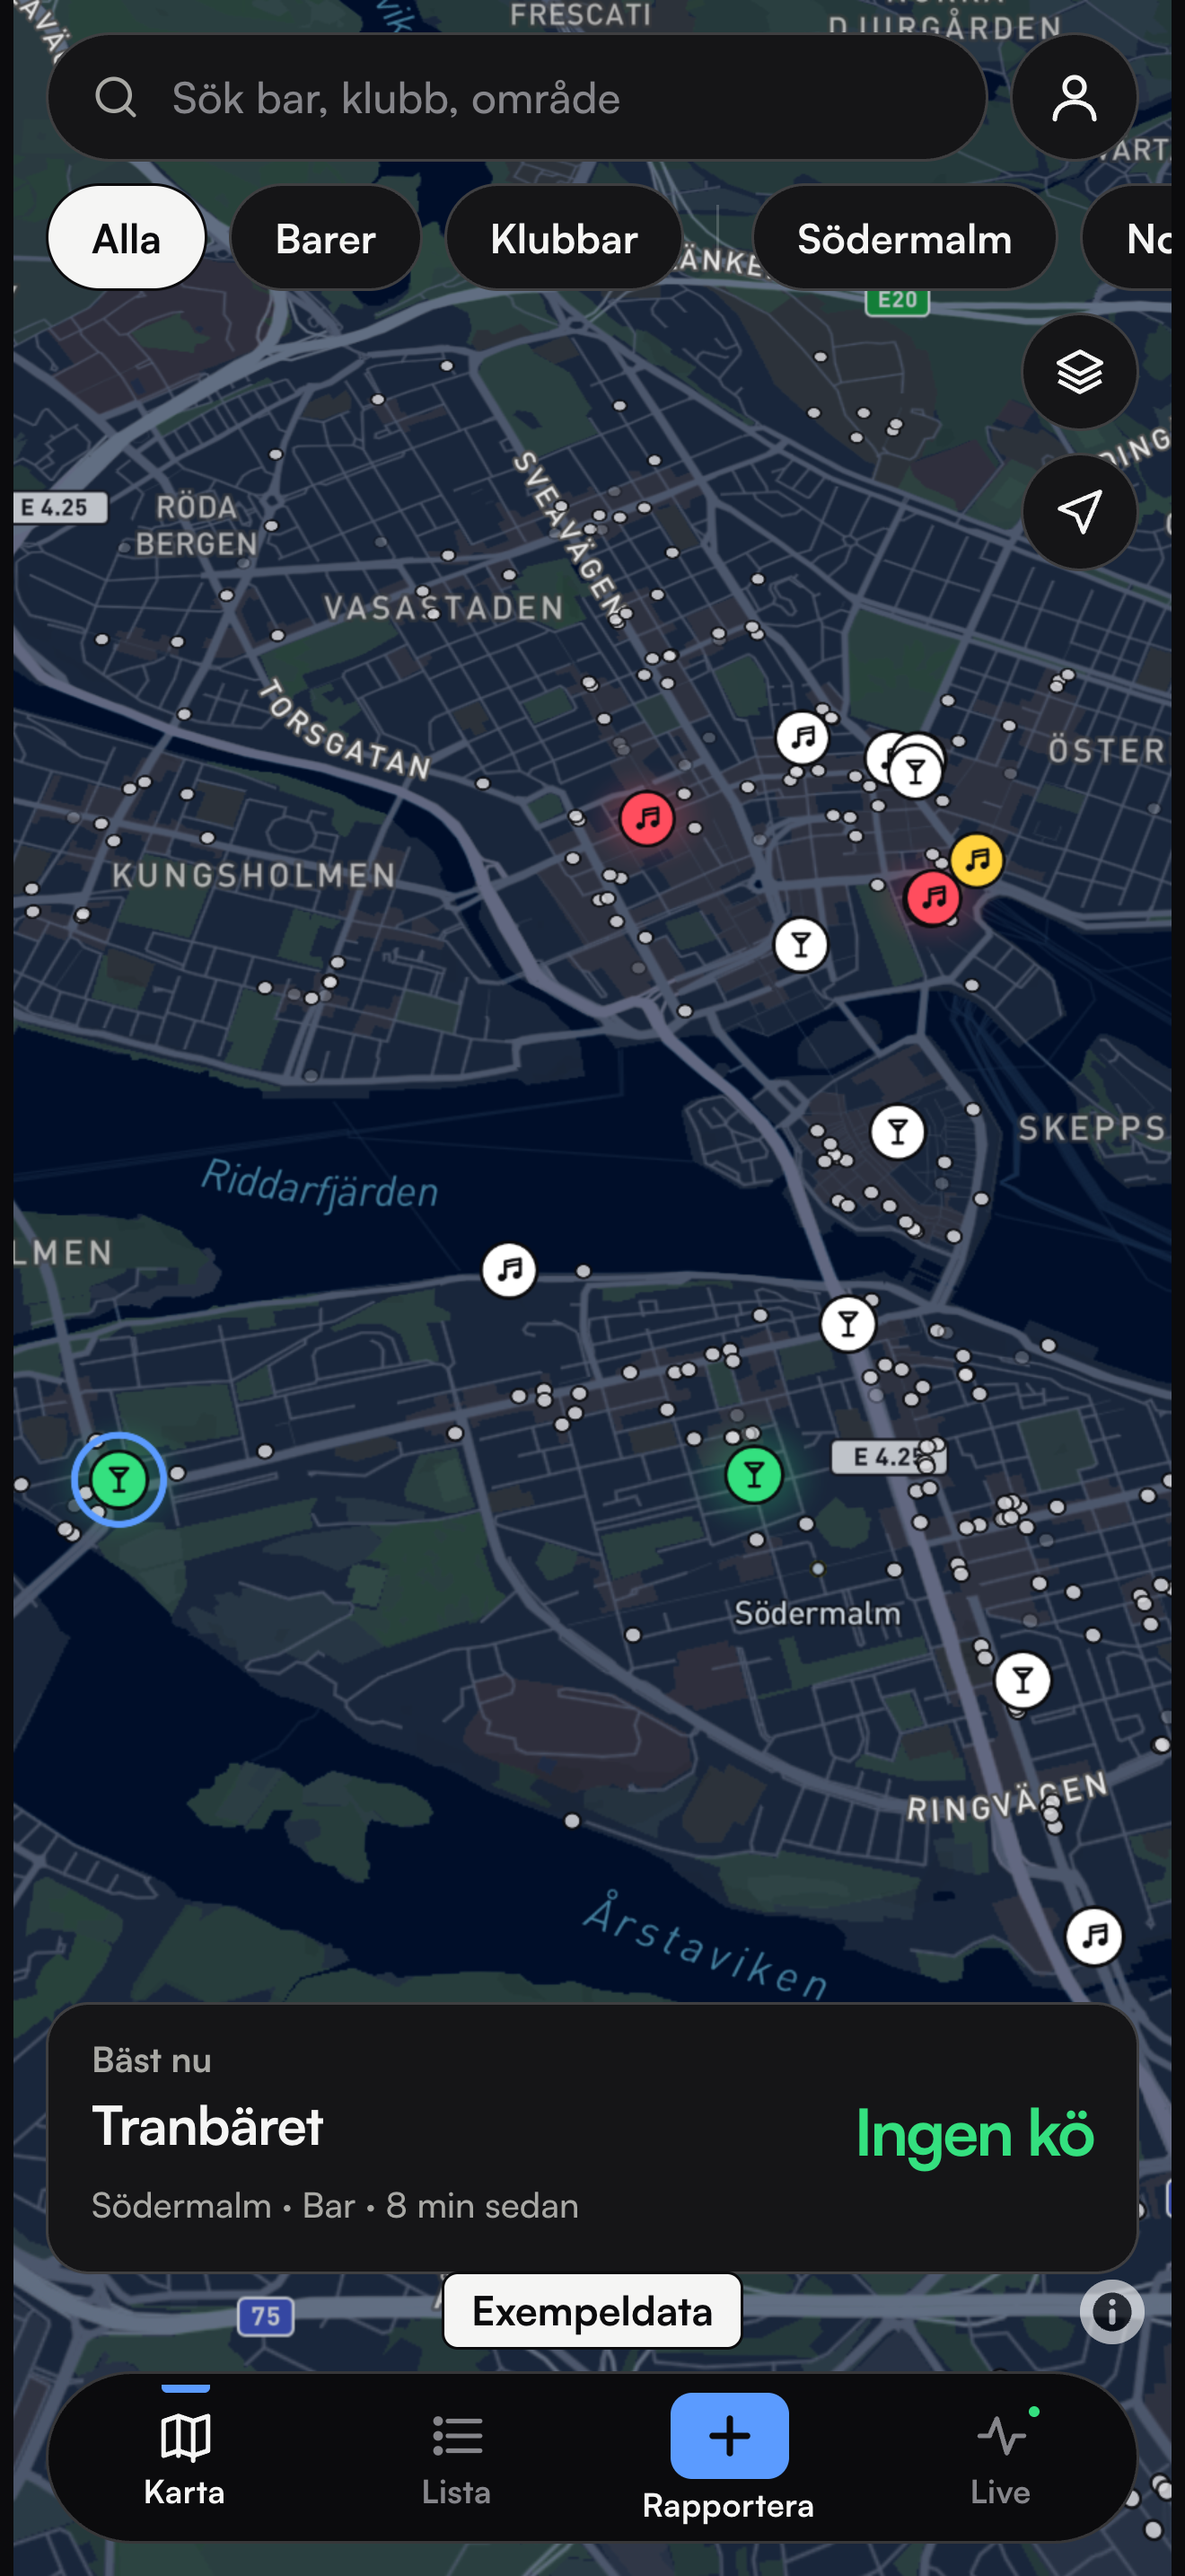
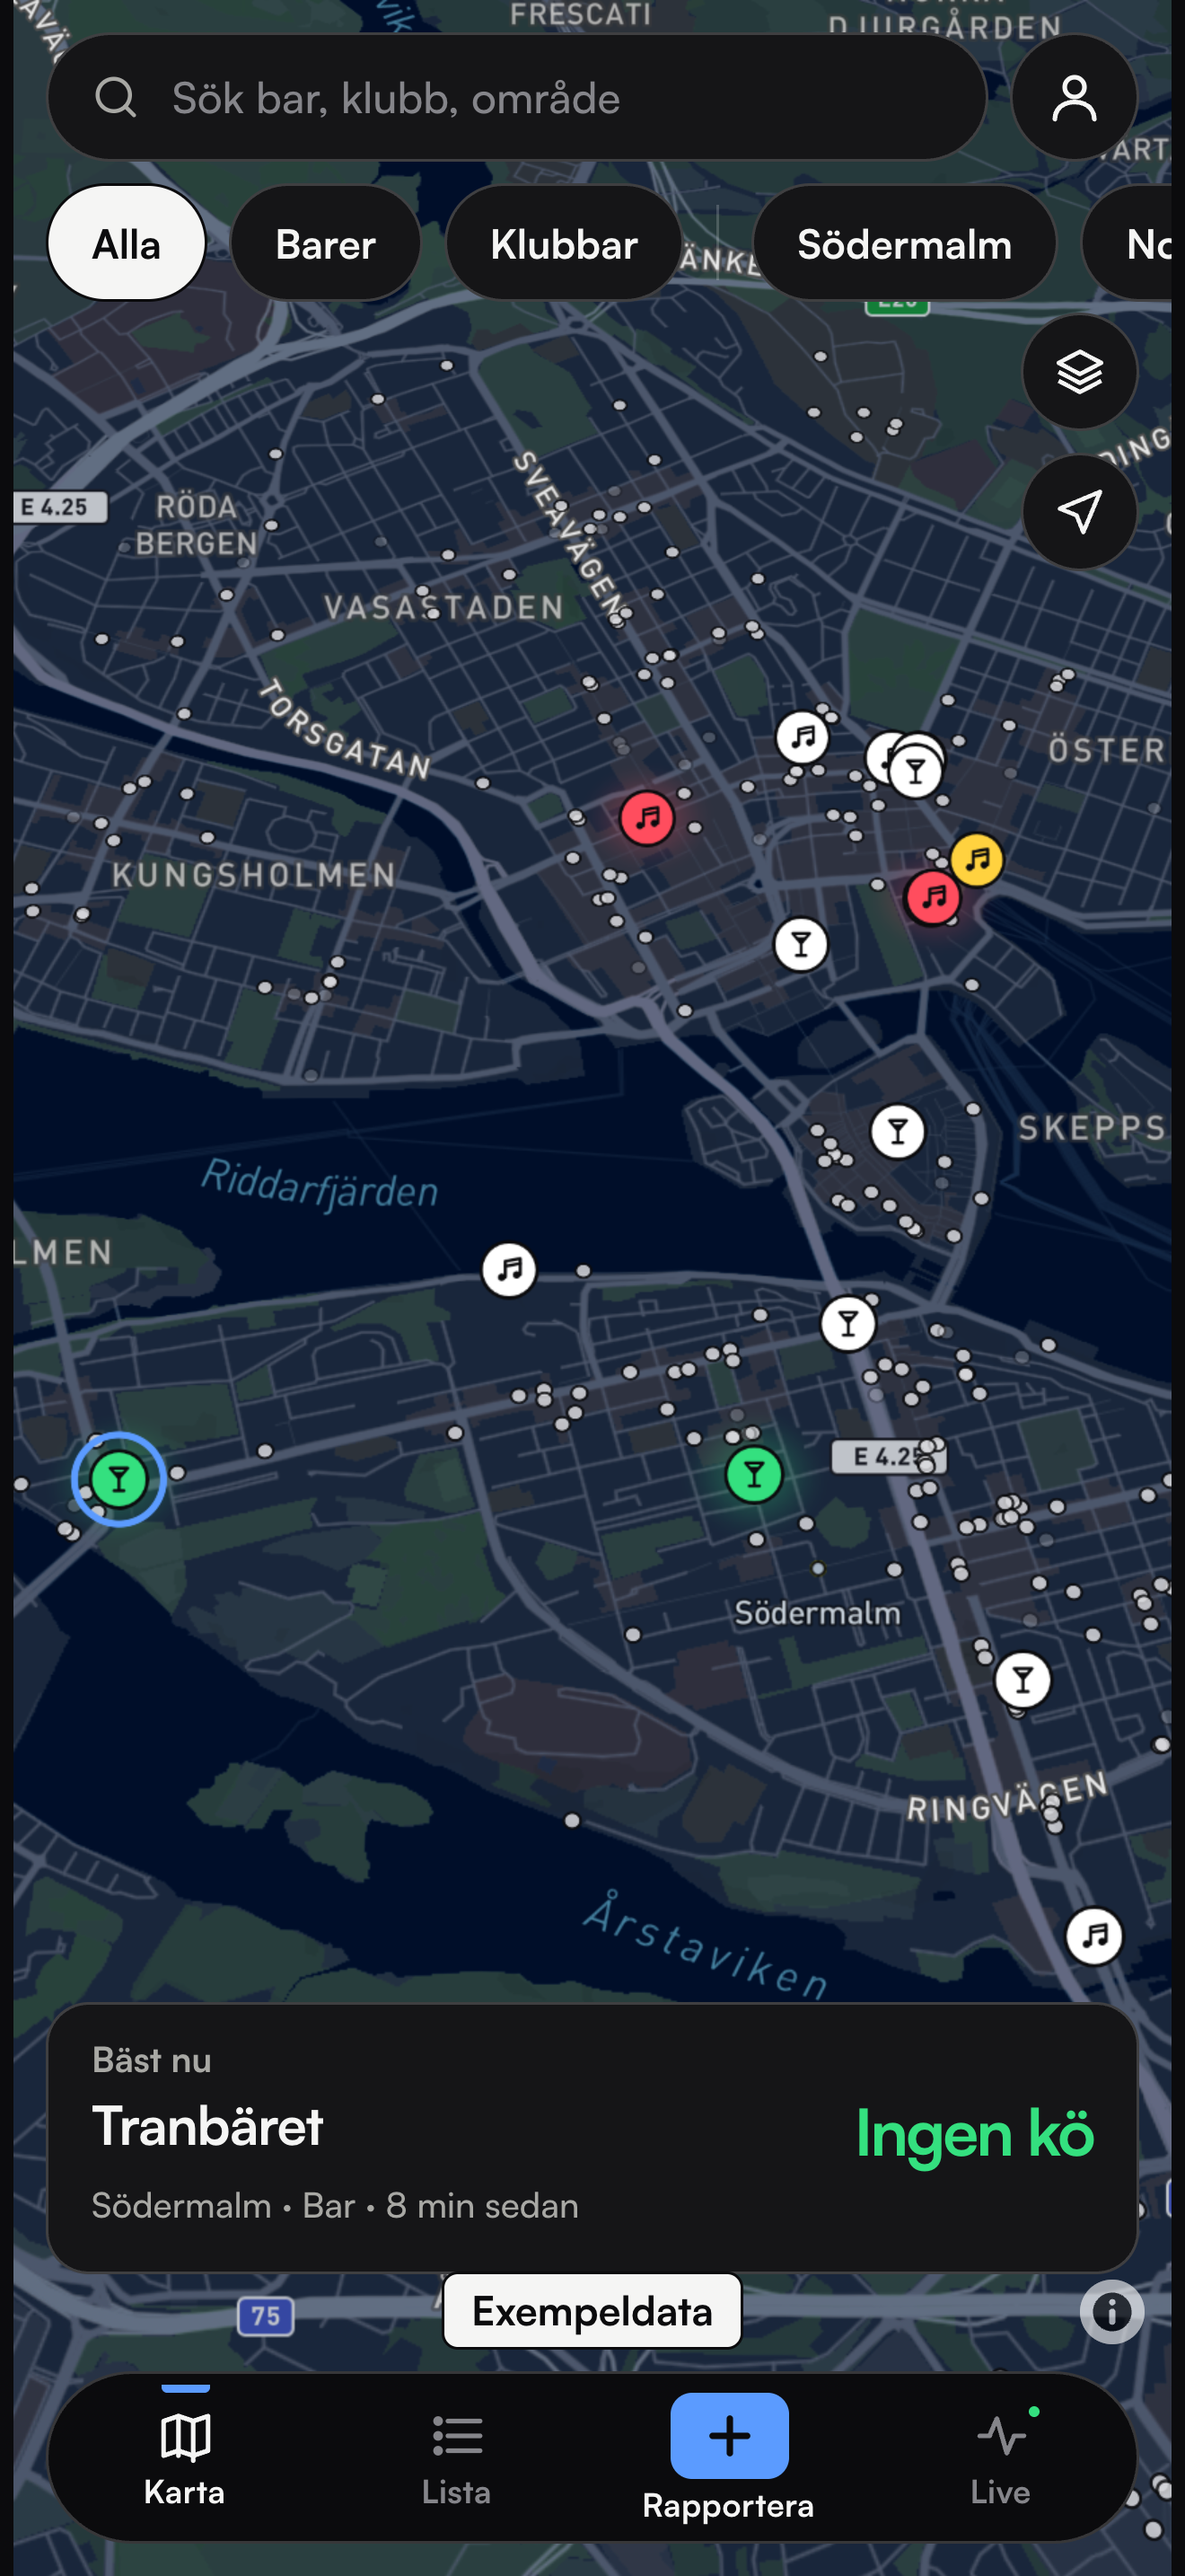
Inför App Store: CSP, 404-sida och sitemap i stället för catch-all, kön i ord i Rapportera, tryckytor 44 pt, Brukar vara ur antalet, frontman som dev-beroende, kategori Livsstil

diff --git a/src/main.js b/src/main.js
@@ -3135,7 +3135,9 @@ import './style.css';
 
     // "Brukar vara …" (listan och På väg, bara när färsk data saknas): vanligaste köstatusen samma veckodag ±1 h
     // tidigare kvällar — samma regel som historicalRateFor, via nightKey så att 00:30 hör till kvällen innan. Kvällen
-    // just nu räknas inte; den har egen data. "Ingen kö" räknas med, annars överdrivs köerna.
+    // just nu räknas inte; den har egen data. "Ingen kö" räknas med, annars överdrivs köerna. Statusen räknas här ur
+    // antalet och ställets takt, inte ur rapportens queue_status: den väljer klienten, och en falsk rad kunde säga "lång kö"
+    // om 5 personer.
     // shortcut: de 1000 senaste initial-rapporterna på 8 veckor (PostgREST-taket); flytta till en RPC när det inte räcker.
     async function loadHistoricalPatterns() {
       if (!supabase) return;
@@ -3144,7 +3146,7 @@ import './style.css';
         var key = nightKey(now);
         var result = await supabase
           .rpc('report_history')
-          .select('venue_id, queue_status, created_at')
+          .select('venue_id, people_ahead, created_at')
           .gte('created_at', new Date(now - 8 * 7 * 24 * 3600 * 1000).toISOString())
           .eq('report_type', 'initial')
           .neq('venue_id', DEMO_VENUE_ID)
@@ -3157,7 +3159,9 @@ import './style.css';
           if (now - t < 12 * 3600 * 1000) return;
           var k = nightKey(t), dh = Math.abs(k.hour - key.hour);
           if (k.dow !== key.dow || Math.min(dh, 24 - dh) > 1) return;
-          var s = r.queue_status === 'free' ? 'none' : r.queue_status; // äldre rader skrev 'free'
+          var v = getVenueById(r.venue_id);
+          if (!v || r.people_ahead == null) return;
+          var s = waitToStatus({ ahead: r.people_ahead, mins: r.people_ahead / PACE_RATE[v.pace], full: false });
           var c = byVenue[r.venue_id] = byVenue[r.venue_id] || {};
           c[s] = (c[s] || 0) + 1;
         });
@@ -4684,6 +4688,9 @@ import './style.css';
         var km = distanceKmTo(v);
         var metaParts = [v.area + (rsTypeLbl ? ' · ' + rsTypeLbl : '')];
         if (km !== null) metaParts.push(formatDistance(km));
+        // Kön i ord bredvid pricken: färgen ensam når varken färgblinda eller VoiceOver.
+        var waitWords = fresh ? venueWaitText(v.id) : '';
+        if (waitWords) metaParts.unshift(waitWords);
         // Utan rapport: ingen text. Den ihåliga pricken säger det redan, och samma mening på 292 rader var en textvägg.
         var ago = closed ? 'stängt' : fresh ? timeAgo(new Date(latestTs[v.id]).toISOString()) : '';
         return '<button class="rs-item' + (closed ? ' rs-item--closed' : '') + '" onclick="pickRV(\'' + v.id + '\')">' +

diff --git a/src/style.css b/src/style.css
@@ -471,6 +471,7 @@
     .vc-fav svg { display: block; width: 18px; height: 18px; fill: none; stroke: currentColor; stroke-width: 2; stroke-linejoin: miter; }
     .vc-fav.fav { color: var(--text-primary); }
     .vc-fav.fav svg { fill: currentColor; }
+    .vc-fav { min-width: 44px; display: inline-flex; align-items: center; justify-content: center; } /* stjärnan är 18 px; tryckytan 44 */
     /* Stängs med ett tryck på kartan eller raden. För tangentbord finns knappen, synlig bara när den har fokus. */
     .vc-close { position: absolute; width: 1px; height: 1px; padding: 0; border: 0; overflow: hidden; clip-path: inset(50%); white-space: nowrap; }
     .vc-close:focus-visible {
@@ -591,7 +592,7 @@
       display: inline-flex; align-items: center; gap: 8px; flex-shrink: 0;
       background: var(--surface); border: 1px solid var(--border);
       border-radius: var(--radius-full); padding: 0 16px;
-      height: 40px;
+      height: 44px; /* Apples minsta tryckyta */
       color: var(--text-secondary); font-family: var(--font-base);
       font-size: calc(15 * var(--u)); font-weight: 700; cursor: pointer; white-space: nowrap;
       transition: background var(--dur-fast) var(--ease-out), color var(--dur-fast) var(--ease-out), border-color var(--dur-fast) var(--ease-out);

diff --git a/public/404.html b/public/404.html
@@ -1,0 +1,25 @@
+<!doctype html>
+<html lang="sv">
+<head>
+<meta charset="utf-8">
+<meta name="viewport" content="width=device-width, initial-scale=1, viewport-fit=cover">
+<meta name="theme-color" content="#0B0B0D">
+<meta name="robots" content="noindex">
+<title>Sidan finns inte · Qbar</title>
+<style>
+  :root { color-scheme: dark; }
+  body { margin: 0; min-height: 100vh; display: flex; align-items: center; justify-content: center; background: #0B0B0D; color: #F5F5F4; font: 16px/1.5 -apple-system, BlinkMacSystemFont, "Segoe UI", sans-serif; text-align: center; }
+  main { padding: 24px; max-width: 320px; }
+  h1 { font-size: 22px; margin: 0 0 8px; }
+  p { color: #A8A8A4; margin: 0 0 24px; }
+  a { display: inline-block; min-height: 48px; line-height: 48px; padding: 0 24px; border-radius: 12px; background: #5B9BFF; color: #0B0B0D; font-weight: 700; text-decoration: none; }
+</style>
+</head>
+<body>
+<main>
+  <h1>Sidan finns inte</h1>
+  <p>Adressen leder ingenstans.</p>
+  <a href="/">Till Qbar</a>
+</main>
+</body>
+</html>

diff --git a/docs/DATA_MODEL.md b/docs/DATA_MODEL.md
@@ -142,7 +142,7 @@ rapportera.
 | Funktion | Fråga | Gräns |
 |---|---|---|
 | `loadReports` | `select * where expires_at >= nu order by created_at desc` | **limit 1000** (B-05) |
-| `loadHistoricalPatterns` | `rpc('report_history')` med `select venue_id, queue_status, created_at where created_at >= 8 v, report_type = 'initial' order by created_at desc` — "Ingen kö" räknas med, kvällen just nu (senaste 12 h) räknas bort i klienten | **limit 1000** |
+| `loadHistoricalPatterns` | `rpc('report_history')` med `select venue_id, people_ahead, created_at where created_at >= 8 v, report_type = 'initial' order by created_at desc` — statusen räknas i klienten ur antalet och ställets `pace` (inte ur `queue_status`); "Ingen kö" räknas med, kvällen just nu (senaste 12 h) räknas bort | **limit 1000** |
 | `loadHistoricalRates` | `rpc('report_history')` med `select venue_id, queue_session, people_ahead, report_type, created_at where queue_session not null, created_at >= 8 v order by created_at desc` | **limit 1000** |
 | `loadUserHistory` | `rpc('my_reports', { p_user_id })`: egna rapporter, nyast först — profilen räknar unika kö-sessioner; "–" medan den hämtar eller om den misslyckas | ingen |
 
@@ -248,8 +248,9 @@ som inte finns i databasen. Felet var tyst (returvärdet kontrollerades inte) oc
    i timmen per nät (IP-adressen hashad med hemligt salt, sparad en timme i `report_ip_log`). Ett nytt id räcker alltså
    inte för att fylla ett ställe; ett nytt nät gör det. Mer kräver inloggning eller captcha.
 3. **`expires_at` och `created_at` sätts av servern.**
-4. **`queue_status` beräknas i klienten** och skickas med. Den kan sättas till vilket känt värde som helst
-   oberoende av `people_ahead`.
+4. **`queue_status` beräknas i klienten** och skickas med. Servern kräver bara att `'none'` ⇔ 0 framför
+   (`status_mismatch`); i övrigt kan den vara vilken känd status som helst. Därför läser varken kartan, listan eller
+   "Brukar vara" den: allt räknas ur `people_ahead`.
 5. **Radera min data** är ett anrop: `delete_my_data(p_user_id)` (security definer) raderar dina rader i `reports` och
    `push_subscriptions`. Bara vid svar utan fel rensas `localStorage`. Låst fast av "5. Radera min data" i
    `e2e/app.spec.js`. Förut stoppade `stop_on_my_way` (som inte finns) och den saknade delete-policyn varje radering.
@@ -257,9 +258,9 @@ som inte finns i databasen. Felet var tyst (returvärdet kontrollerades inte) oc
    och resten av kö-sessionen följer med (`supabase/migrations/20261111050000_delete_my_report.sql`).
 
 6. **Nycklar i klartext i källkoden** (`src/main.js`): Mapbox-token, Supabase-URL och
-   Supabase anon-nyckel. Båda är avsedda att vara publika — Mapbox-token är URL-begränsad och
-   anon-nyckeln skyddas av RLS (punkt 1–5 och migreringarna i `supabase/migrations/`). Ingen `.env` finns och ingen
-   `import.meta.env` läses, trots att Vite stöder det.
+   Supabase anon-nyckel. Båda är avsedda att vara publika. Anon-nyckeln skyddas av RLS (punkt 1–5 och migreringarna i
+   `supabase/migrations/`). Mapbox-token är **inte** URL-begränsad (2026-11-24: en annan Origin fick 200); begränsa den
+   i Mapbox-kontot. Ingen `.env` finns och ingen `import.meta.env` läses, trots att Vite stöder det.
 
 ### XSS
 

diff --git a/docs/ARCHITECTURE.md b/docs/ARCHITECTURE.md
@@ -32,7 +32,7 @@ Den svåraste delen är nummer 2. Se [QUEUE_LOGIC.md](QUEUE_LOGIC.md).
 | Karta | `mapbox-gl` 3.x via npm, Mapbox Standard som import `basemap`; karttyp natt, ljus eller satellit (`MAP_STYLES`) | `src/main.js` |
 | Databas / API | Supabase (PostgREST + Realtime) via `@supabase/supabase-js` 2.x | `src/main.js` |
 | Typsnitt | **Satoshi** för text och siffror (`--font-mono` är samma), från egen domän | `public/satoshi.css`, `scripts/fonts.mjs` |
-| Hosting | Vercel, SPA-rewrite, `Cache-Control: no-store` | `vercel.json` |
+| Hosting | Vercel: `/krog` → `krog.html`, annars bara filerna (okänd adress får `404.html`), CSP och `Cache-Control: no-store` | `vercel.json` |
 | Utvecklingsverktyg | `@frontman-ai/vite` (endast dev) | `vite.config.js` |
 | Enhetstester | **Vitest** 5.x, 143 tester | `vitest.config.js`, `tests/` |
 | E2E | **Playwright** 1.56, 12 tester | `playwright.config.js`, `e2e/` |

diff --git a/store/APP_STORE.md b/store/APP_STORE.md
@@ -58,7 +58,7 @@ Qbar är för dig som fyllt 18 år.
 
 **Integritetspolicy-URL:** `https://qbar-app.vercel.app/integritet.html`
 
-**Kategori:** Mat och dryck (primär), Navigering (sekundär)
+**Kategori:** Mat och dryck (primär), Livsstil (sekundär). Inte Navigering: vägen öppnas i Google Maps
 
 **Copyright:** `2026 Fais Useng`
 
